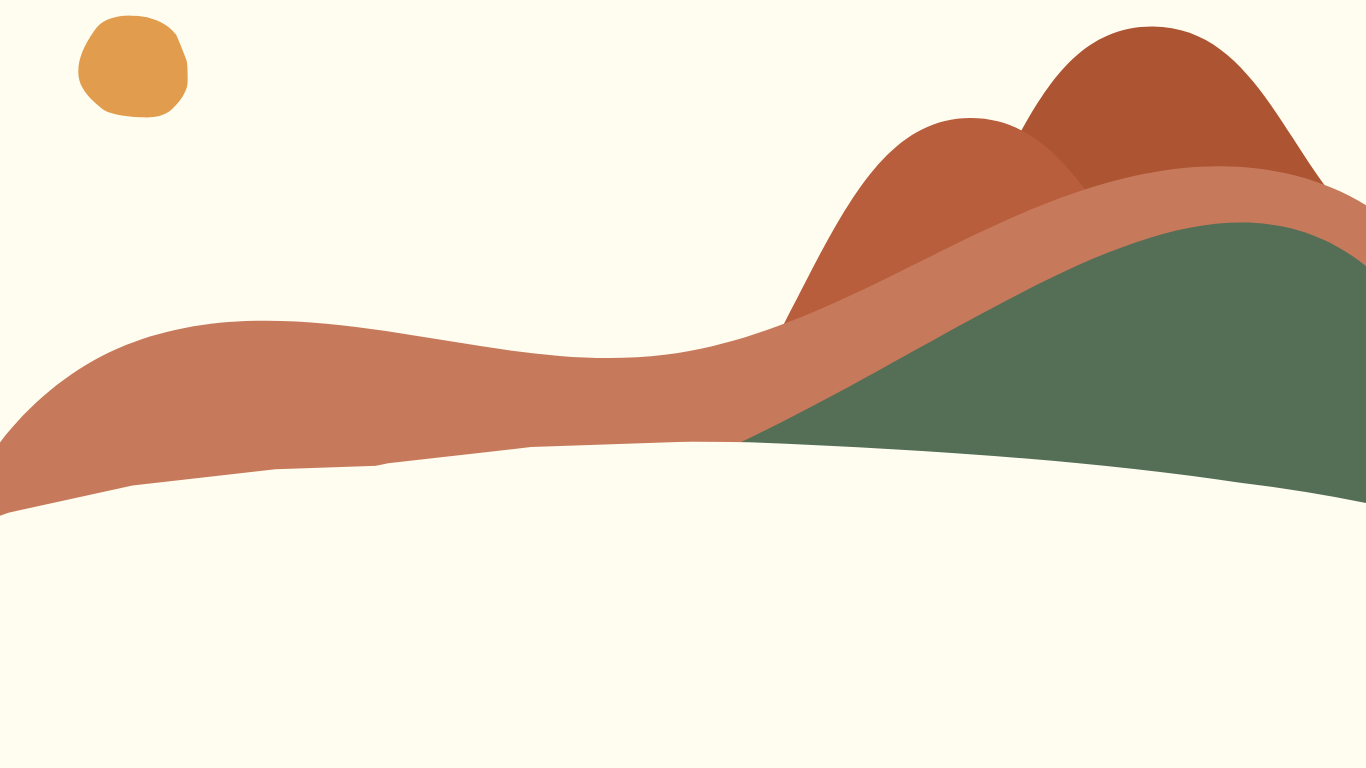
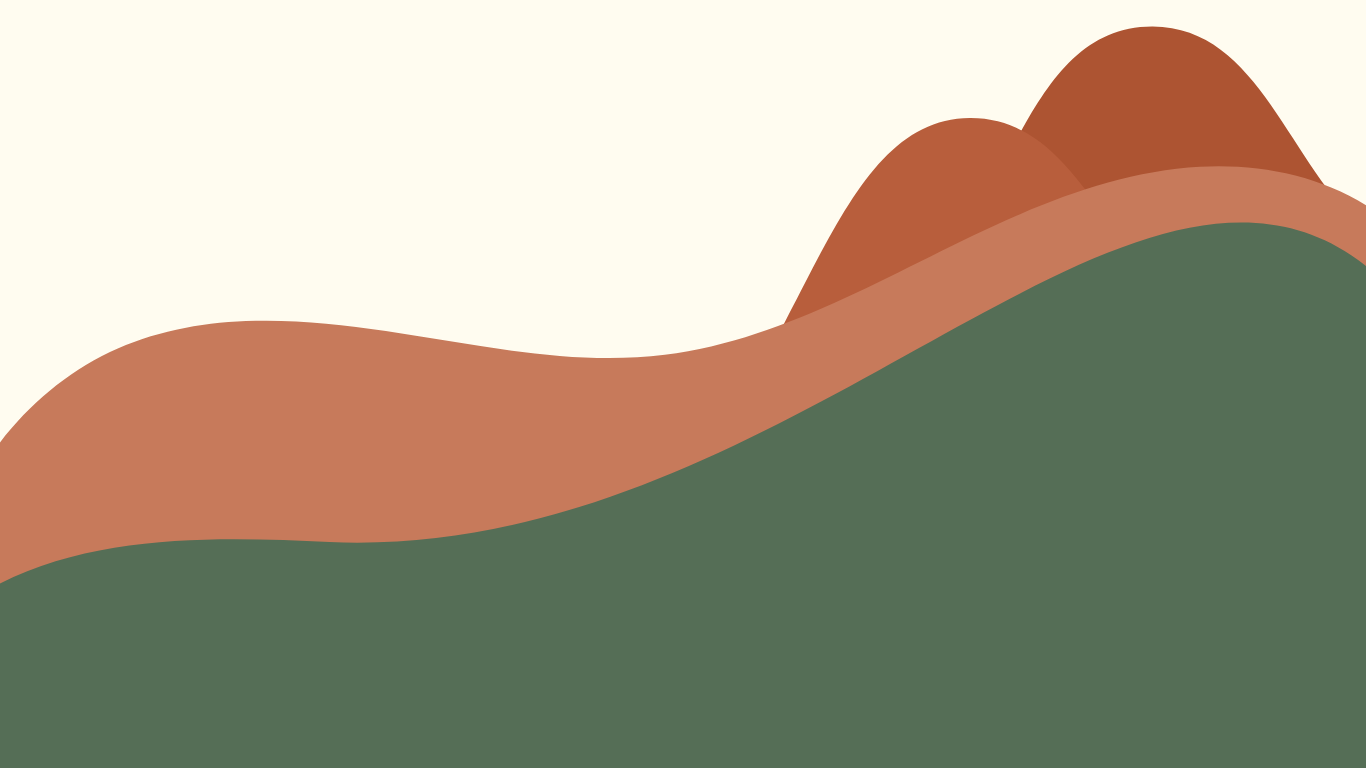
updated position booking card

diff --git a/src/features/bookings/ui/BookingWidget.tsx b/src/features/bookings/ui/BookingWidget.tsx
@@ -141,13 +141,6 @@ export const BookingWidget = ({ content }: BookingWidgetProps) => {
   return (
     <section className="mx-auto w-full max-w-3xl px-6 py-10">
       <div className="rounded-3xl border border-[#ead8cd] bg-[#f8f5f2]/90 p-6 shadow-[0_20px_60px_-45px_rgba(88,42,24,0.6)]">
-        <header className="mb-6">
-          <h2 className="text-2xl font-semibold tracking-tight text-slate-900 text-balance">
-            {bookingHeading}
-          </h2>
-          <p className="mt-2 text-sm text-slate-700 text-pretty">{bookingDescription}</p>
-        </header>
-
         <form onSubmit={handleSubmit} className="space-y-4">
           <div className="grid gap-4 md:grid-cols-2">
             <label className="flex flex-col gap-1 text-sm text-slate-700">